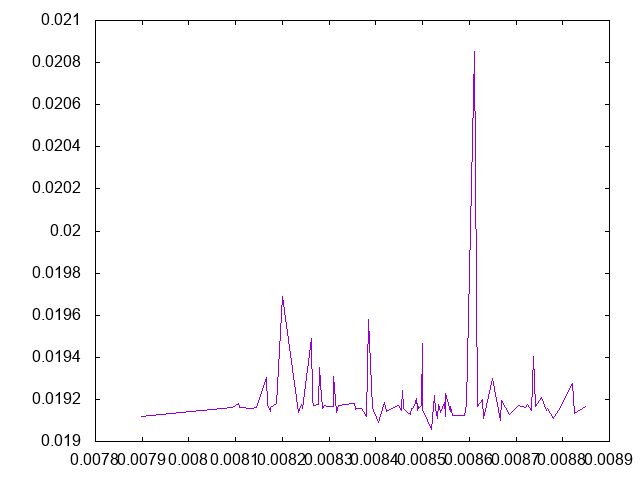
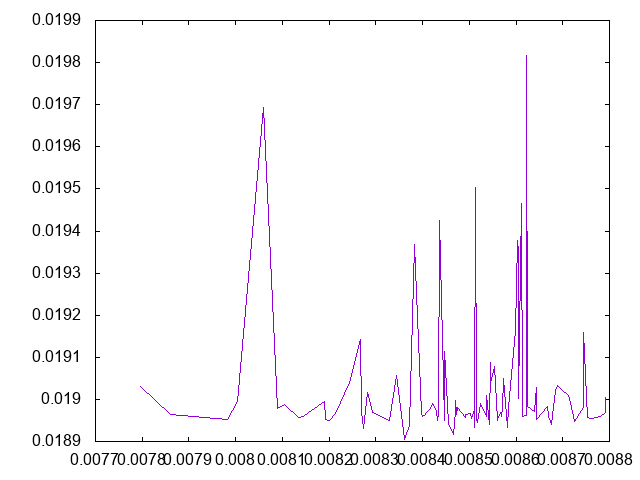
実験3書き足した

diff --git a/src/experiment.tex b/src/experiment.tex
@@ -7,6 +7,7 @@
 でおこない、
 \begin{algorithm}
   \caption{$\epsilon > 0$の与え方}
+  \label{MakeEpsilon}
   \begin{algorithmic}
     \For {$i = 1$ to $10$}
       \For {$j = 9$ to $1$}
@@ -183,7 +184,7 @@
 この結果から、アルゴリズムは内点実行可能解がない場合、$\epsilon$に依存して実行時間が伸びていることがわかる。
 
 \subsection{実験3}
-条件として使用する$A_1, A_2, \cdots, A_{30}$をMATLAB標準のrandiを用いて、Algorithm \ref{MakeRandomMatrices}のようにして生成を行った。
+条件として使用する$A_1, A_2, \cdots, A_{30}$をMATLAB標準のrandiを用いて、Algorithm \ref{MakeRandomMatrices}のようにして生成を行った。この実験では乱数を用いたので、$A_1, A_2, \cdots A_{30}$を生成して、そしてそれらについて$\epsilon$ごとに30回実行時間をソテクするということを1反復として実験を100回ほど行った。すなわち、$A_1, A_2, \cdots, A_{30}$に対してAlgorithm \ref{MakeEpsilon}を使用して、各$\epsilon$とともにMain Procedureの入力とし、$\epsilon$ごとに30回ほどその実行時間を測定した。
 \begin{algorithm}
   \caption{$100$次実対称行列群$A_1, A_2, \cdots, A_{30}$の生成}
   \label{MakeRandomMatrices}
@@ -203,6 +204,21 @@
   \caption{実験3の実験結果}
   \label{randomtest}
 \end{figure}
+
+実験結果からExcelを用いて二元配置法を用いて、測定結果における分散分析表を作成した(表\ref{AnalysisOfVarianceTable})。
+\begin{table}
+  \centering
+  \caption{実験3の分散分析表}
+  \label{AnalysisOfVarianceTable}
+  \begin{tabular}{c|cccccc} \hline
+    要因         & 平方和     & 自由度   & 平均平方              & 分散比     & $p$値                 & $F$境界値 \\ \hline
+    テスト       & $0.010711$ & $99$     & $0.000108$            & $6.081734$ & $4.7 \times 10^{-73}$ & $1.244736$ \\
+    $\epsilon$   & $0.03111$  & $89$     & $3.5 \times 10^{-5}$  & $19.65009$ & $1.41 \times 10^{-7}$ & $1.25871$ \\
+    交互作用     & $0.265943$ & $8811$   & $3.02 \times 10^{-5}$ & $1.696642$ & $0$                   & $1.025166$ \\
+    繰り返し誤差 & $7.845353$ & $441000$ & $1.78 \times 10^{-5}$ &            &                       & \\ \hline
+  \end{tabular}
+\end{table}
+
 この実験では$\epsilon$がどのような値であっても問題(\ref{MainSemidefiniteSystem})の許容解$X \succ 0$がみつかる。しかし、前述の実験のように$\epsilon$の値に応じて常に実行時間線形の値となるわけではなく、起伏が激しくなってしまった。これは実行時間が短かすぎたために、コンテキストスイッチなどのアルゴリズムとは本質的には関係ない実行時間による影響が大きくなってしまったのではないかと考えられる。
 
 また、実行した際にえられた許容解の最小固有値を横軸に、縦軸を実行時間とすると、図\ref{eigen}のような結果が得られた。
